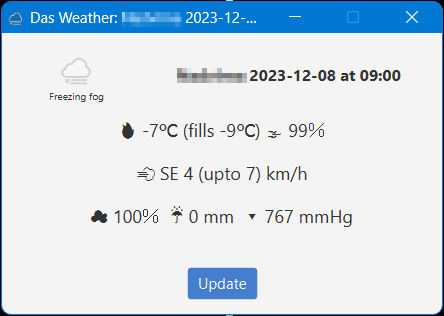
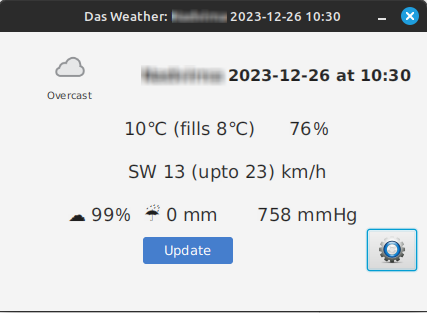
Added Application Configuration.

diff --git a/src/main/java/das/tools/weather/gui/ConfigControllerImpl.java b/src/main/java/das/tools/weather/gui/ConfigControllerImpl.java
@@ -1,0 +1,104 @@
+package das.tools.weather.gui;
+
+import das.tools.weather.service.GuiConfigService;
+import javafx.collections.FXCollections;
+import javafx.collections.ObservableList;
+import javafx.fxml.FXML;
+import javafx.scene.control.*;
+import javafx.stage.Stage;
+import lombok.extern.slf4j.Slf4j;
+import org.springframework.beans.factory.annotation.Autowired;
+import org.springframework.stereotype.Component;
+
+import java.util.Arrays;
+import java.util.Properties;
+
+@Component
+@Slf4j
+public class ConfigControllerImpl {
+    @Autowired
+    private GuiConfigService configService;
+    private Properties appProps;
+
+    @FXML
+    private TextField edApiKey;
+    @FXML
+    private TextField edForecastUrl;
+    @FXML
+    private TextField edLocation;
+    @FXML
+    private Spinner<Integer> spUpdateInterval;
+    @FXML
+    private ComboBox<String> cbCondLang;
+    @FXML
+    private CheckBox chbConfirmExit;
+    @FXML
+    private Button btOk;
+    @FXML
+    private Button btCancel;
+    public ConfigControllerImpl() {
+    }
+
+    @FXML
+    private void initialize() {
+        btOk.setOnAction(actionEvent -> saveConfigAndClose());
+        btCancel.setOnAction(actionEvent -> closeStage());
+    }
+
+    public void onShowingStage() {
+        appProps = configService.getCurrentConfig();
+        edApiKey.setText(appProps.getProperty(GuiConfigService.GUI_CONFIG_API_KEY_KEY, ""));
+        edForecastUrl.setText(appProps.getProperty(GuiConfigService.GUI_CONFIG_FORECAST_URL_KEY, "http://api.weatherapi.com/v1/forecast.json"));
+        edLocation.setText(appProps.getProperty(GuiConfigService.GUI_CONFIG_WEATHER_LOCATION_KEY, "Kyiv"));
+        chbConfirmExit.setSelected(Boolean.parseBoolean(appProps.getProperty(GuiConfigService.GUI_CONFIG_CONFIRM_EXIT_KEY, "true")));
+        spUpdateInterval.getValueFactory().setValue(mSecToMin(Integer.parseInt(appProps.getProperty(GuiConfigService.GUI_CONFIG_UPDATE_INTERVAL_KEY, "60"))));
+        cbCondLang.setItems(getLanguagesList());
+        String langName = configService.getLangName(appProps.getProperty(GuiConfigService.GUI_CONFIG_CONDITION_LANGUAGE_KEY, "en"));
+        cbCondLang.getSelectionModel().select(langName);
+    }
+
+    private ObservableList<String> getLanguagesList() {
+        String[] langs = GuiConfigService.GUI_SUPPORTED_CONDITION_LANGUAGES.values().toArray(new String[0]);
+        Arrays.sort(langs);
+        return FXCollections.observableArrayList(langs);
+    }
+
+    private void saveConfigAndClose() {
+        saveConfig();
+        closeStage();
+    }
+
+    private void closeStage() {
+        ((Stage) btCancel.getScene().getWindow()).close();
+    }
+
+    private void saveConfig() {
+        updateConfigFromForm();
+        configService.saveConfig(appProps);
+    }
+
+    private void updateConfigFromForm() {
+        setPropertyIfChanged(GuiConfigService.GUI_CONFIG_API_KEY_KEY, edApiKey.getText());
+        setPropertyIfChanged(GuiConfigService.GUI_CONFIG_FORECAST_URL_KEY, edForecastUrl.getText());
+        setPropertyIfChanged(GuiConfigService.GUI_CONFIG_WEATHER_LOCATION_KEY, edLocation.getText());
+        setPropertyIfChanged(GuiConfigService.GUI_CONFIG_CONFIRM_EXIT_KEY, String.valueOf(chbConfirmExit.isSelected()));
+        setPropertyIfChanged(GuiConfigService.GUI_CONFIG_UPDATE_INTERVAL_KEY, String.valueOf(minToMSec(spUpdateInterval.getValue())));
+        String langCode = configService.getLangCode(cbCondLang.getValue());
+        setPropertyIfChanged(GuiConfigService.GUI_CONFIG_CONDITION_LANGUAGE_KEY, langCode);
+    }
+
+    private void setPropertyIfChanged(String key, String value) {
+        String oldProperty = appProps.getProperty(key);
+        if (oldProperty != null && !"".equals(oldProperty) && !oldProperty.equals(value)) {
+            appProps.setProperty(key, value);
+        }
+    }
+
+    private Integer minToMSec(int min) {
+        return min * 60 * 1000;
+    }
+
+    private Integer mSecToMin(int msec) {
+        return Math.round((float) msec / (60 * 1000));
+    }
+}

diff --git a/src/main/java/das/tools/weather/gui/GuiControllerImpl.java b/src/main/java/das/tools/weather/gui/GuiControllerImpl.java
@@ -1,5 +1,6 @@
 package das.tools.weather.gui;
 
+import das.tools.weather.config.GuiConfig;
 import das.tools.weather.entity.ForecastWeatherResponse;
 import das.tools.weather.entity.current.WeatherCurrent;
 import das.tools.weather.service.GuiConfigService;
@@ -8,9 +9,12 @@ import javafx.concurrent.Task;
 import javafx.event.ActionEvent;
 import javafx.event.EventHandler;
 import javafx.fxml.FXML;
+import javafx.scene.Parent;
+import javafx.scene.Scene;
 import javafx.scene.control.*;
 import javafx.scene.image.Image;
 import javafx.scene.image.ImageView;
+import javafx.stage.Modality;
 import javafx.stage.Stage;
 import lombok.AllArgsConstructor;
 import lombok.Builder;
@@ -23,6 +27,7 @@ import org.springframework.stereotype.Component;
 import java.text.SimpleDateFormat;
 import java.time.Instant;
 import java.util.Date;
+import java.util.Properties;
 
 @Component
 @Slf4j
@@ -43,14 +48,24 @@ public class GuiControllerImpl implements GuiController {
     @FXML
     private Button btUpdate;
     @FXML
+    private Button btConfig;
+    @FXML
     private ImageView imgWeather;
     @FXML
     private ProgressBar pb;
+    @FXML
+    private ImageView imgConfigure;
 
     @Autowired
     private WeatherService weatherService;
     @Autowired
     private GuiConfigService guiConfig;
+    @Autowired
+    private ConfigControllerImpl configController;
+    @Autowired
+    private GuiConfig.ViewHolder guiConfigView;
+
+    private Scene configScene;
 
     public GuiControllerImpl() {
     }
@@ -64,6 +79,9 @@ public class GuiControllerImpl implements GuiController {
                 updateWeatherData();
             }
         });
+        btConfig.setTooltip(getTooltip("Configure Application"));
+        btConfig.setOnAction(actionEvent -> showConfigWindow());
+        imgConfigure.setImage(new Image("/images/configure.png"));
     }
 
     private void updateControls() {
@@ -99,7 +117,7 @@ public class GuiControllerImpl implements GuiController {
                 updateTime
         )));
 
-        String MSG_TEMPERATURE = "\uD83D\uDD25 %.0f\u2103 (fills %.0f\u2103) \uD83C\uDF2B %d\uFF05";
+        String MSG_TEMPERATURE = "\uD83D\uDD25 %.0f℃ (fills %.0f℃) \uD83C\uDF2B %d％";
         lbTemperature.setText(String.format(MSG_TEMPERATURE,
                 current.getTemperatureC(),
                 current.getFeelsLike(),
@@ -126,13 +144,24 @@ public class GuiControllerImpl implements GuiController {
         )));
     }
 
-    private Tooltip getTooltip(String caption) {
+    private void showConfigWindow() {
+        configScene = configScene == null ? new Scene(guiConfigView.getView()) : configScene;
+        Stage stage = new Stage();
+        stage.setTitle("Weather Application Config");
+        stage.setScene(configScene);
+        stage.setResizable(false);
+        stage.initModality(Modality.WINDOW_MODAL);
+        stage.setOnShowing(windowEvent -> configController.onShowingStage());
+        stage.show();
+    }
+
+    private static Tooltip getTooltip(String caption) {
         return new Tooltip(caption);
     }
 
     @Override
     public void updateWeatherData() {
-        long updateInterval = Long.parseLong(guiConfig.getConfigStringValue("app.update.interval.msec", "3600000"));
+        long updateInterval = Long.parseLong(guiConfig.getConfigStringValue(GuiConfigService.GUI_CONFIG_UPDATE_INTERVAL_KEY, "3600000"));
         if (updateInterval < MINIMAL_UPDATE_INTERVAL) {
             updateInterval = MINIMAL_UPDATE_INTERVAL;
             if (log.isDebugEnabled()) log.debug("Update Interval corrected to {} msec.", MINIMAL_UPDATE_INTERVAL);

diff --git a/src/main/java/das/tools/weather/service/GuiConfigServiceImpl.java b/src/main/java/das/tools/weather/service/GuiConfigServiceImpl.java
@@ -4,19 +4,42 @@ import lombok.extern.slf4j.Slf4j;
 import org.springframework.beans.factory.annotation.Value;
 import org.springframework.stereotype.Service;
 
+import java.io.FileOutputStream;
 import java.io.IOException;
 import java.nio.file.Files;
 import java.nio.file.Path;
 import java.nio.file.Paths;
+import java.util.Map;
 import java.util.Properties;
 
 @Service
 @Slf4j
 public class GuiConfigServiceImpl implements GuiConfigService {
-    public static final String GUI_CONFIG_DEFAULT_FILE_NAME = "gui.config";
 
     @Value("${app.config}")
-    private String configFile = "config" + System.getProperty("file.separator") + GUI_CONFIG_DEFAULT_FILE_NAME;
+    private String configFile = "config" + System.getProperty("file.separator") + GUI_CONFIG_DEFAULT_FILE_NAME_KEY;
+
+    static {
+        Map<String,String> map = GUI_SUPPORTED_CONDITION_LANGUAGES;
+        map.put("en", "English");
+        map.put("uk", "Ukrainian");
+        map.put("bg", "Bulgarian");
+        map.put("cs", "Czech");
+        map.put("nl", "Dutch");
+        map.put("fi", "Finnish");
+        map.put("fr", "French");
+        map.put("de", "German");
+        map.put("el", "Greek");
+        map.put("it", "Italian");
+        map.put("ja", "Japanese");
+        map.put("ko", "Korean");
+        map.put("po", "Polish");
+        map.put("pt", "Portuguese");
+        map.put("sp", "Spanish");
+        map.put("sk", "Slovak");
+        map.put("sv", "Swedish");
+        map.put("vi", "Vietnamese");
+    }
 
     @Override
     public Properties getCurrentConfig() {
@@ -27,8 +50,33 @@ public class GuiConfigServiceImpl implements GuiConfigService {
     }
 
     @Override
+    public void saveConfig(Properties props) {
+        String fileName = !"".equals(configFile) ? getConfigCurrentFileName() : getConfigDefaultFileName();
+        try (FileOutputStream os = new FileOutputStream(fileName)) {
+            props.store(os, "Das Weather Properties");
+        } catch (IOException e) {
+            log.error("Error saving config into file '{}'",fileName, e);
+        }
+    }
+
+    @Override
     public String getConfigStringValue(String key, String defValue) {
         return getCurrentConfig().getProperty(key, defValue);
+    }
+
+    @Override
+    public String getLangName(String code) {
+        return GUI_SUPPORTED_CONDITION_LANGUAGES.getOrDefault(code, GUI_SUPPORTED_CONDITION_LANGUAGES.get("en"));
+    }
+
+    @Override
+    public String getLangCode(String name) {
+        for (Map.Entry<String,String> entry : GUI_SUPPORTED_CONDITION_LANGUAGES.entrySet()) {
+            if (entry.getValue().equals(name)) {
+                return entry.getKey();
+            }
+        }
+        return GUI_SUPPORTED_CONDITION_LANGUAGES.get("en");
     }
 
     private String getConfigDefaultFileName() {
@@ -36,7 +84,7 @@ public class GuiConfigServiceImpl implements GuiConfigService {
                 System.getProperty("file.separator") +
                 "config" +
                 System.getProperty("file.separator") +
-                GUI_CONFIG_DEFAULT_FILE_NAME
+                GUI_CONFIG_DEFAULT_FILE_NAME_KEY
         );
         if (log.isDebugEnabled()) log.debug("got default config file={}", file);
         return file.toString();

diff --git a/src/main/java/das/tools/weather/service/WeatherServiceImpl.java b/src/main/java/das/tools/weather/service/WeatherServiceImpl.java
@@ -40,11 +40,11 @@ public class WeatherServiceImpl implements WeatherService {
     public ForecastWeatherResponse getForecastWeather() {
         Properties props = guiConfig.getCurrentConfig();
         ForecastWeatherResponse response = null;
-        String url = ServletUriComponentsBuilder.fromHttpUrl(props.getProperty("app.weather.forecast.url", ""))
-                .queryParam("key", props.getProperty("app.api-key", ""))
-                .queryParam("q", props.getProperty("app.weather.location", "Kyiv"))
+        String url = ServletUriComponentsBuilder.fromHttpUrl(props.getProperty(GuiConfigService.GUI_CONFIG_FORECAST_URL_KEY, ""))
+                .queryParam("key", props.getProperty(GuiConfigService.GUI_CONFIG_API_KEY_KEY, ""))
+                .queryParam("q", props.getProperty(GuiConfigService.GUI_CONFIG_WEATHER_LOCATION_KEY, "Kyiv"))
                 .queryParam("aqi", "yes")
-                .queryParam("lang", props.getProperty("app.weather.condition.lang", "en"))
+                .queryParam("lang", props.getProperty(GuiConfigService.GUI_CONFIG_CONDITION_LANGUAGE_KEY, "en"))
                 .queryParam("days", "3")
                 .toUriString();
         if(log.isDebugEnabled()) log.debug("[WeatherService].getForecastWeather: got url={}", url);

diff --git a/src/main/java/das/tools/weather/service/GuiConfigService.java b/src/main/java/das/tools/weather/service/GuiConfigService.java
@@ -1,9 +1,25 @@
 package das.tools.weather.service;
 
+import java.util.HashMap;
+import java.util.Map;
 import java.util.Properties;
 
 public interface GuiConfigService {
+    public static final String GUI_CONFIG_DEFAULT_FILE_NAME_KEY = "gui.config";
+    public static final String GUI_CONFIG_UPDATE_INTERVAL_KEY = "app.update.interval.msec";
+    public static final String GUI_CONFIG_CONFIRM_EXIT_KEY = "app.confirm-exit";
+    public static final String GUI_CONFIG_API_KEY_KEY = "app.api-key";
+    public static final String GUI_CONFIG_WEATHER_LOCATION_KEY = "app.weather.location";
+    public static final String GUI_CONFIG_CONDITION_LANGUAGE_KEY = "app.weather.condition.lang";
+    public static final String GUI_CONFIG_FORECAST_URL_KEY = "app.weather.forecast.url";
+    public static final Map<String,String> GUI_SUPPORTED_CONDITION_LANGUAGES = new HashMap<>();
     Properties getCurrentConfig();
 
+    void saveConfig(Properties props);
+
     String getConfigStringValue(String key, String defValue);
+
+    String getLangName(String code);
+
+    String getLangCode(String name);
 }

diff --git a/src/main/java/das/tools/weather/config/GuiConfig.java b/src/main/java/das/tools/weather/config/GuiConfig.java
@@ -1,5 +1,6 @@
 package das.tools.weather.config;
 
+import das.tools.weather.gui.ConfigControllerImpl;
 import das.tools.weather.gui.GuiController;
 import javafx.fxml.FXMLLoader;
 import javafx.scene.Parent;
@@ -25,6 +26,16 @@ public class GuiConfig {
     @Bean @Primary
     public GuiController getGuiController() throws IOException {
         return (GuiController) getGuiView().getController();
+    }
+
+    @Bean(name = "guiConfigView")
+    public ViewHolder getConfigView() throws IOException {
+        return loadView("fxml/Config.fxml");
+    }
+
+    @Bean @Primary
+    public ConfigControllerImpl getConfigController() throws IOException {
+        return (ConfigControllerImpl) getConfigView().getController();
     }
 
     protected ViewHolder loadView(String url) throws IOException {

diff --git a/src/main/java/das/tools/weather/DasWeatherApplication.java b/src/main/java/das/tools/weather/DasWeatherApplication.java
@@ -38,7 +38,7 @@ public class DasWeatherApplication extends AbstractJavaFxApplicationSupport {
         stage.setTitle("Das Weather");
         stage.setResizable(false);
         stage.setScene(scene);
-        boolean isConfirmExit = Boolean.parseBoolean(guiConfig.getConfigStringValue("app.confirm-exit", "true"));
+        boolean isConfirmExit = Boolean.parseBoolean(guiConfig.getConfigStringValue(GuiConfigService.GUI_CONFIG_CONFIRM_EXIT_KEY, "true"));
         if (isConfirmExit) {
             stage.setOnCloseRequest(new EventHandler<WindowEvent>() {
                 @Override
